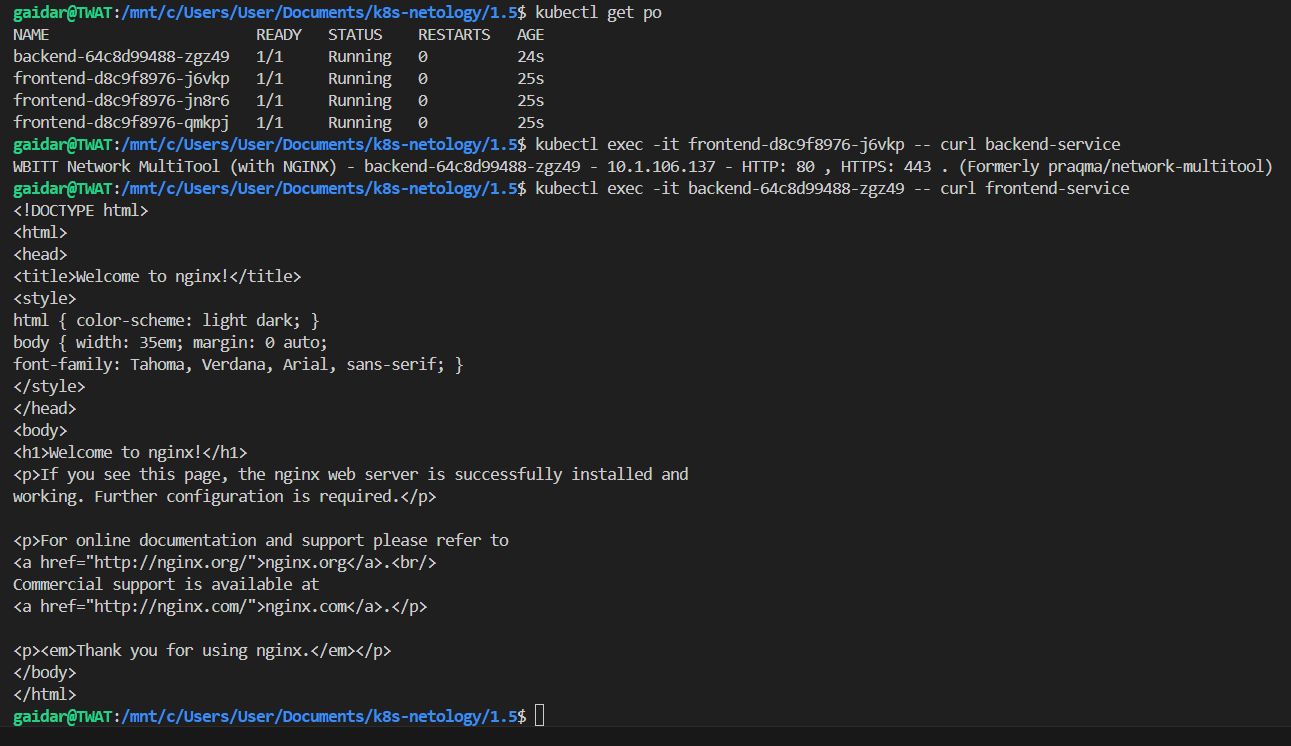
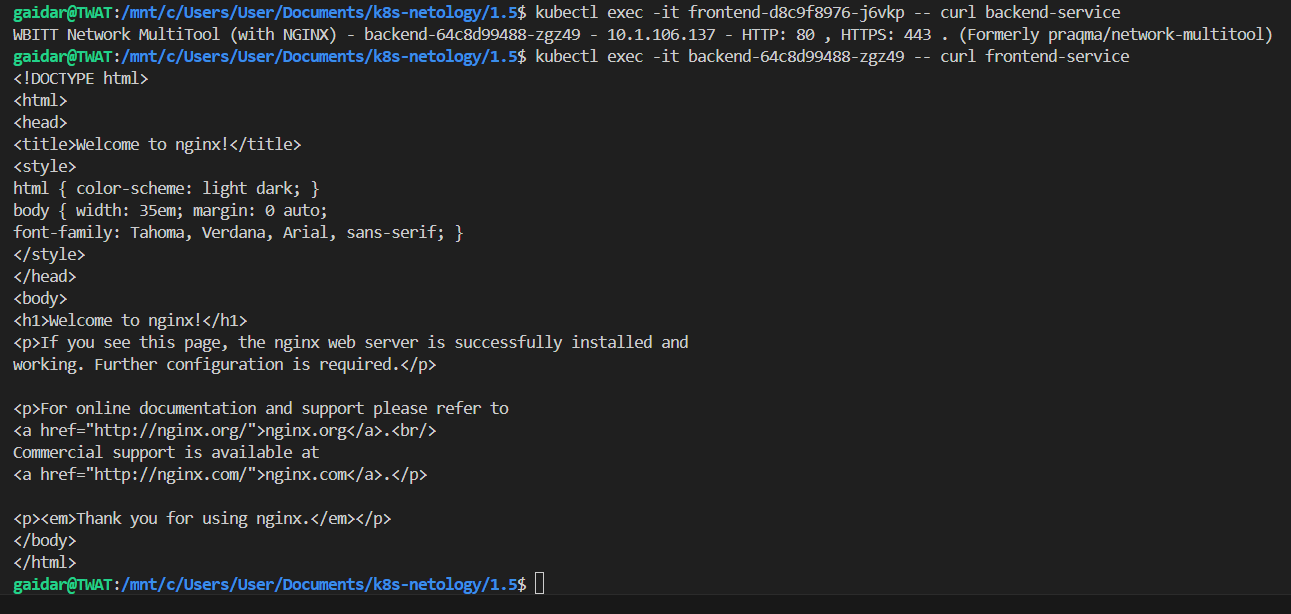
hw5

Changed region(s): [[0.0, 0.0, 0.9915, 0.9902]]

diff --git a/1.5/README.md b/1.5/README.md
@@ -1,6 +1,10 @@
 ### Задание 1. Создать Deployment приложений backend и frontend
 
-Запущеные поды и демонстрация видимости
+Запущеные поды
+
+![alt text](with_ip.png)
+
+Демонстрация видимости приложений
 
 ![alt text](check.png)
 
